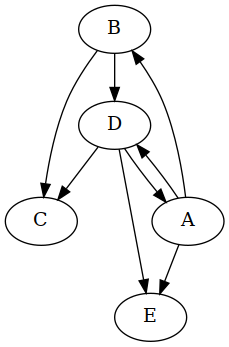
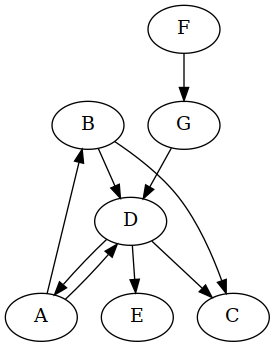
updating readme

diff --git a/README.md b/README.md
@@ -3,7 +3,12 @@
 A groovy dsl for creating and traversing graphs. Graphs can be extended with types which allows developers to create a
 graph with the desired behavior and values for their algorithm.
 
+[![Travis](https://img.shields.io/travis/moaxcp/graph-dsl.svg)]()
 [![Build Status](https://travis-ci.org/moaxcp/graph-dsl.svg?branch=master)](https://travis-ci.org/moaxcp/graph-dsl)
+[![Javadocs](https://www.javadoc.io/badge/com.github.moaxcp/graph-dsl.svg)](https://www.javadoc.io/doc/com.github.moaxcp/graph-dsl)
+[![Maven Central](https://img.shields.io/maven-central/v/com.github.moaxcp/graph-dsl.svg)]()
+[![Libraries.io for GitHub](https://img.shields.io/librariesio/github/moaxcp/graph-dsl.svg)]()
+[![license](https://img.shields.io/github/license/moaxcp/graph-dsl.svg)]()
 
 # Usage
 
@@ -253,25 +258,26 @@ plugin graph.plugin.GraphViz
 ## Graphviz
 
 Graphviz is a graph visualization toolset. The project provides a dsl called dot for visualizing graphs. The graphviz
-plugin provides methods to create dot strings, BufferedImages and to view the graph.
+plugin provides methods to create dot strings, BufferedImages and to view the graph. Edge and Vertex attributes will be used as dot attributes.
 
 ```groovy
+type 'directed-graph'
+plugin 'graphviz'
 vertex A {
     connectsTo B {
         connectsTo C, D
     }
     connectsTo D {
         connectsTo C
-        connectsTo E {
-            connectsFrom A
-        }
+        connectsTo E
     }
     connectsFrom D
 }
+vertex F, [connectsTo:G]
+edge G, D
+image 'images/graphviz.png
 ```
 ![Image of graph](/images/graphviz.png?raw=true "Grpah")
-
-Edge
 
 # Getting Started With Development/Contributing
 
